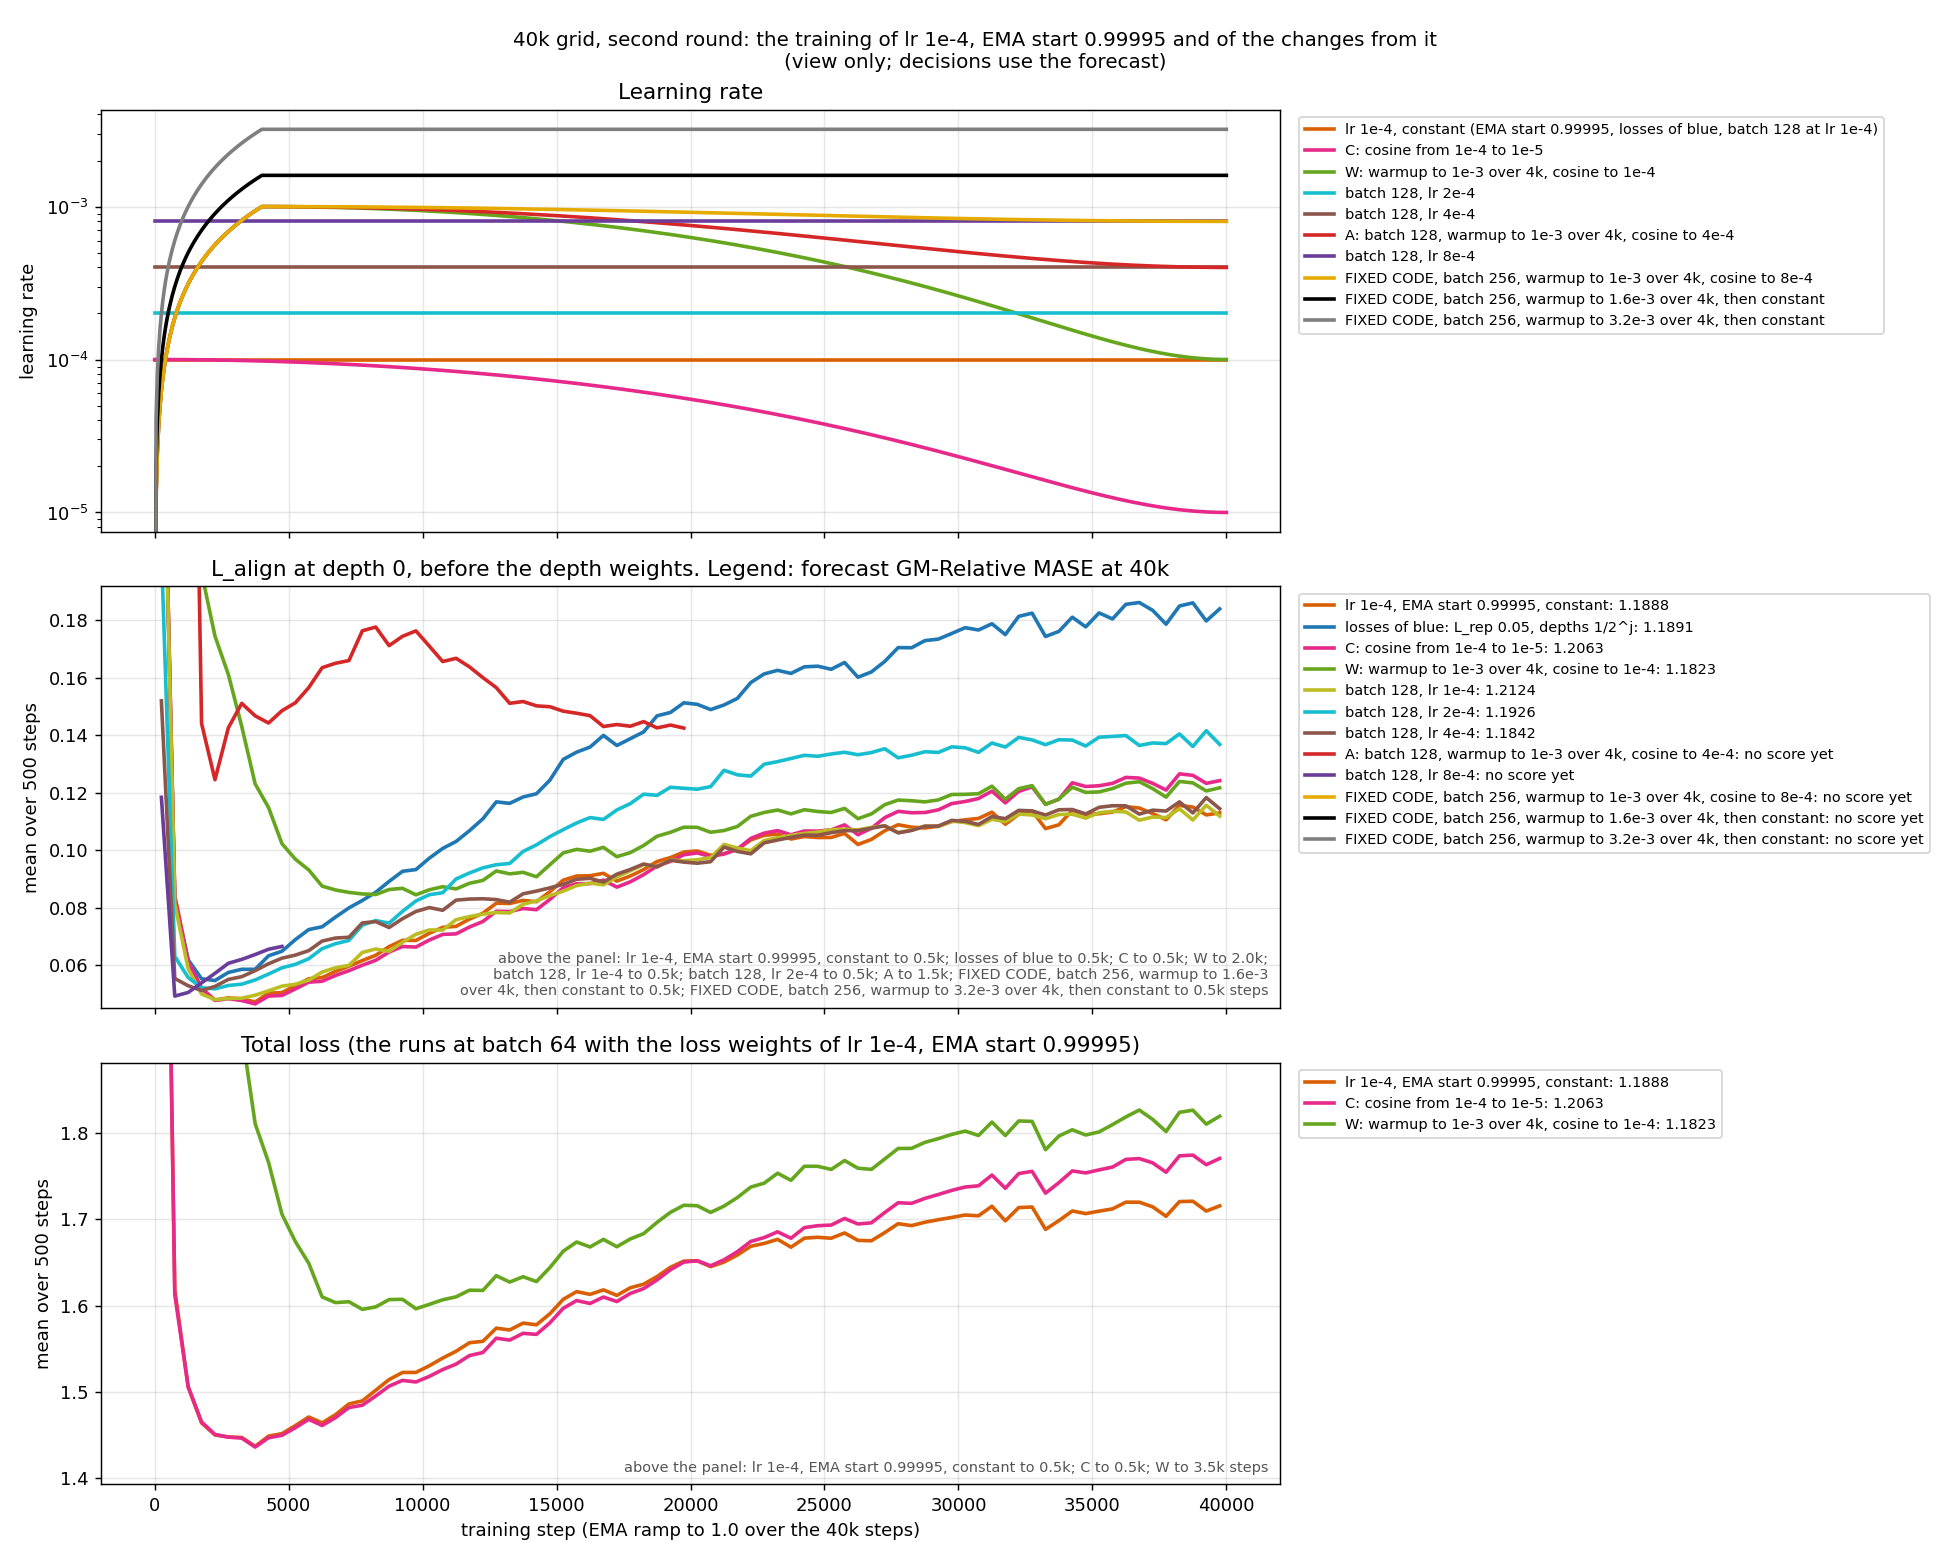
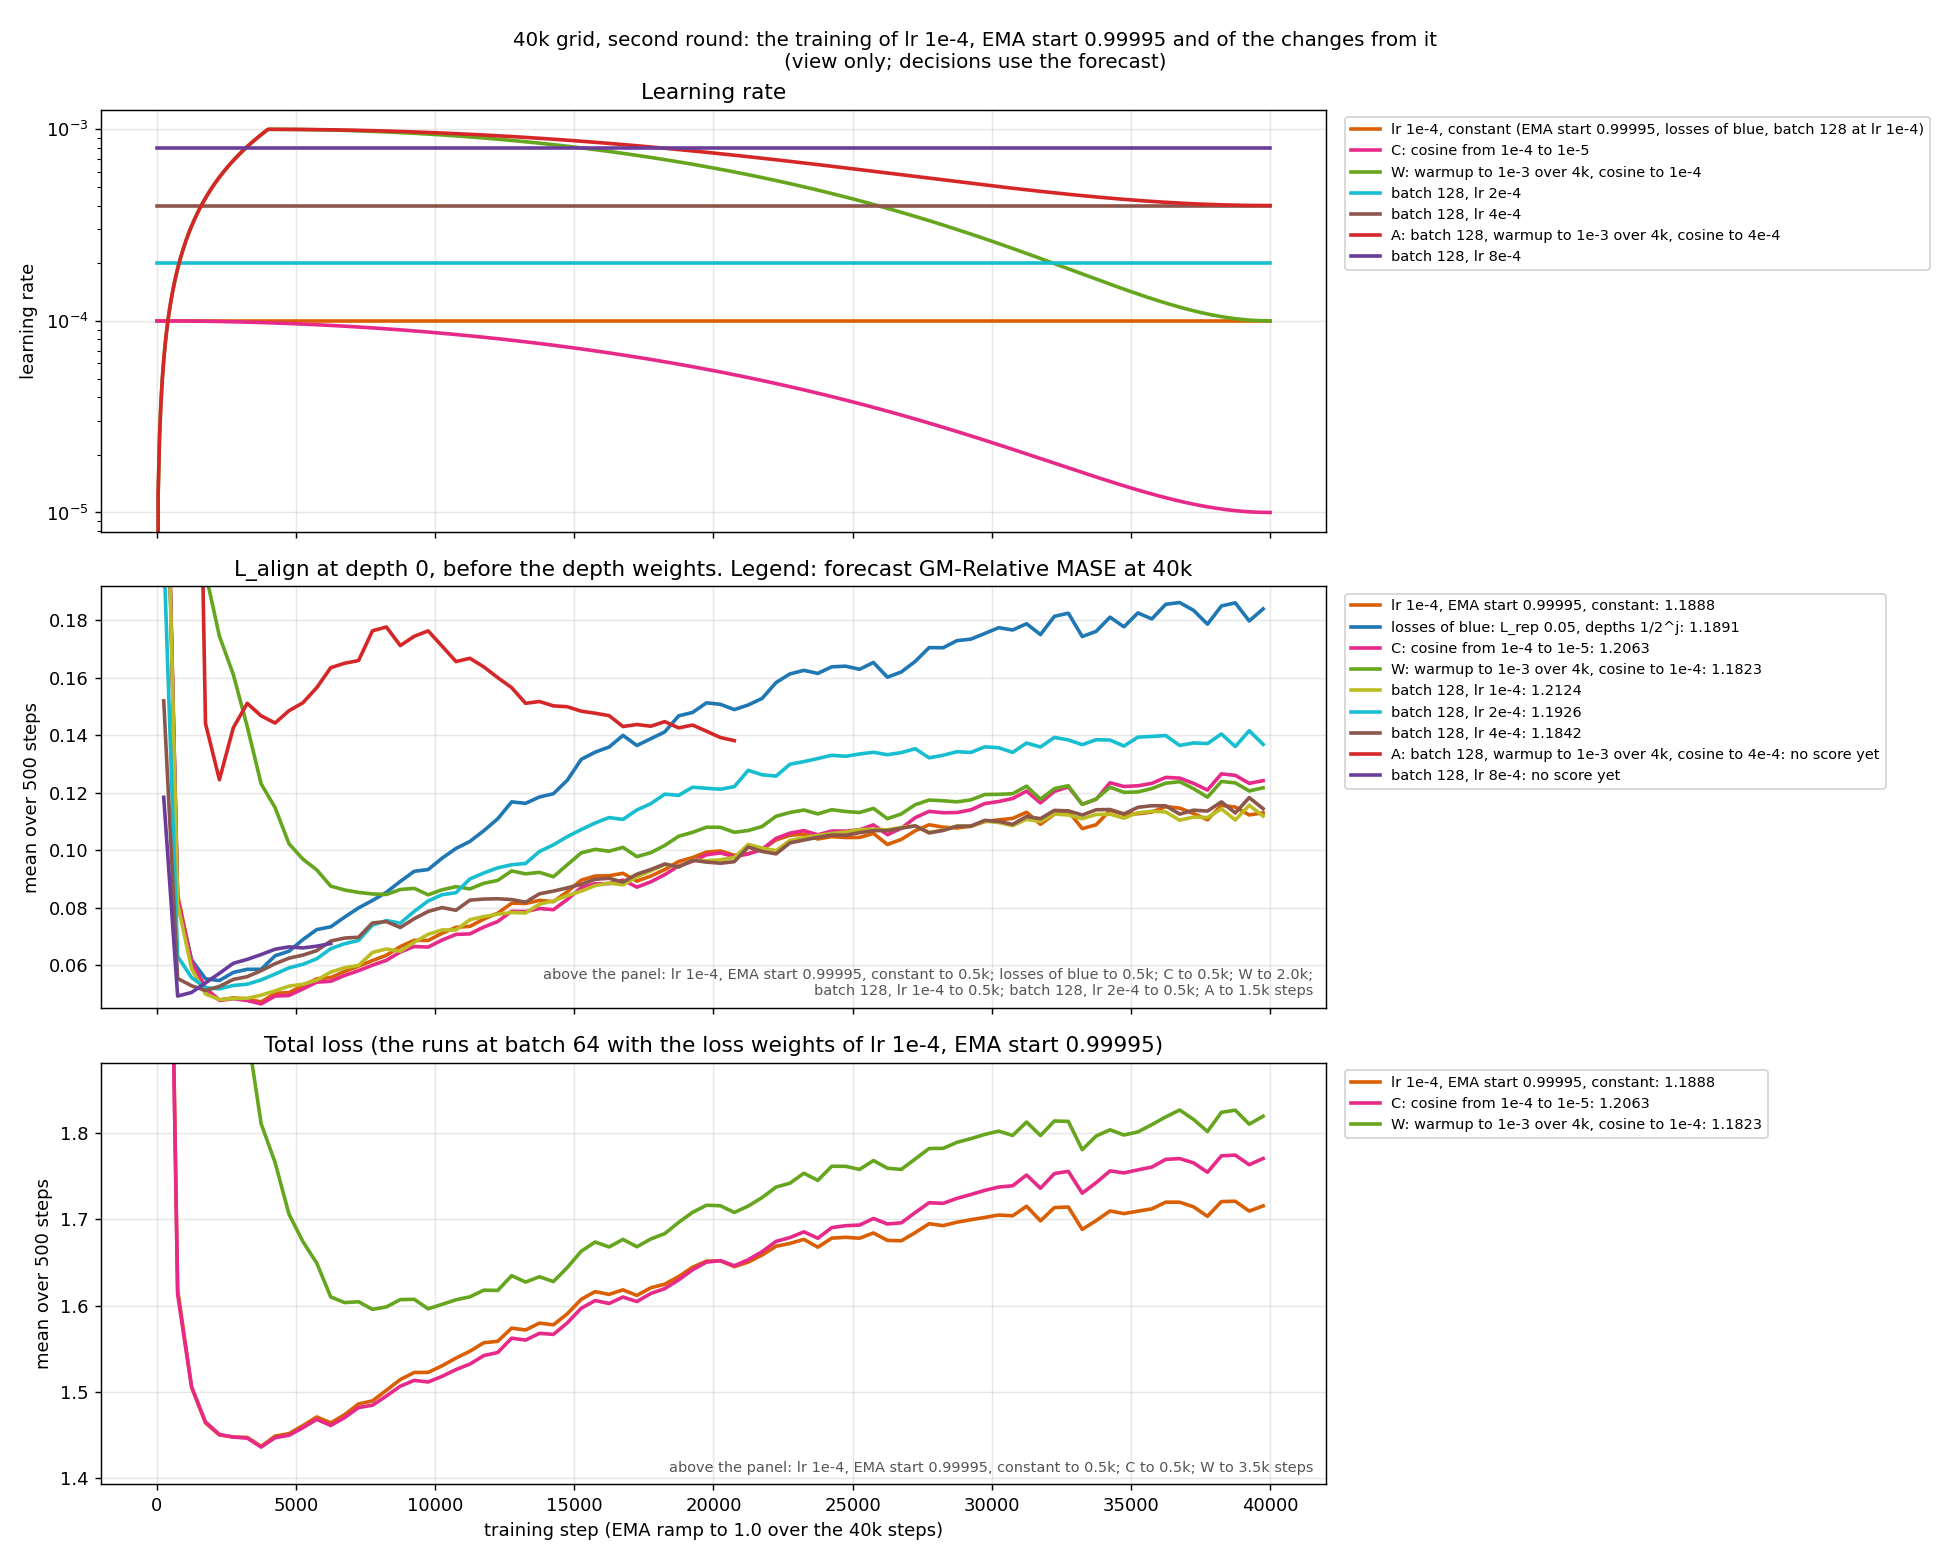
freq_family report: TRQ at 140k (1.1354), the resumed runs drawn from their parent's point; the stopped batch-256 rows out of the grid figures

diff --git a/reports/2026-10-10_frequency_family_head/scripts/plot_grid40k.py b/reports/2026-10-10_frequency_family_head/scripts/plot_grid40k.py
@@ -8,11 +8,8 @@ rows are the learning rate, the columns the EMA start (--ema-tau).
 The second round (the user, 11-02 and 11-03): runs from the cell lr 1e-4,
 EMA start 0.99995, each with one change (the losses of blue or an lr
 schedule); batch 128 at the lr 1e-4, 2e-4, 4e-4 and 8e-4, and with the warmup
-of W and a cosine to 4e-4; batch 256 with a warmup to 1e-3, 1.6e-3 or 3.2e-3
-(around the projected lr 1.6e-3) on the FIXED CODE (the user, 11-03: the
-normalised rollout feedback in training and scoring, #446 and #447, and the
-SIGReg window 6/sigma, #438): the _fx runs. Its panel has that cell as its
-first row.
+of W and a cosine to 4e-4. Batch 256 comes after these batch-128 results (the
+user, 11-03), on the fixed code. Its panel has that cell as its first row.
 
 Each cell is the forecast GM-Relative MASE of head B4 at 40k (30k head steps,
 97 configs). Lower is better. A grey cell has no score yet.
@@ -54,20 +51,13 @@ ROUND2 = {BEST: ("lr 1e-4, EMA start 0.99995\n(no change)", "1e-4"),
           "g40b_lr4em4_tau99995_bs128": ("batch 128, lr 4e-4", "4e-4"),
           "g40w_lr1em3_wu4k_cos4em4_bs128": ("batch 128, warmup to 1e-3,\nthen cosine to 4e-4",
                                              "warmup to 1e-3, cosine to 4e-4"),
-          "g40b_lr8em4_tau99995_bs128": ("batch 128, lr 8e-4", "8e-4"),
-          "g40w_lr1em3_wu4k_cos8em4_bs256_fx": ("FIXED CODE, batch 256,\nwarmup to 1e-3, cosine to 8e-4",
-                                                "warmup to 1e-3, cosine to 8e-4"),
-          "g40w_lr1p6em3_wu4k_bs256_fx": ("FIXED CODE, batch 256,\nwarmup to 1.6e-3, constant",
-                                          "warmup to 1.6e-3, constant"),
-          "g40w_lr3p2em3_wu4k_bs256_fx": ("FIXED CODE, batch 256,\nwarmup to 3.2e-3, constant",
-                                          "warmup to 3.2e-3, constant")}
+          "g40b_lr8em4_tau99995_bs128": ("batch 128, lr 8e-4", "8e-4")}
 # run -> its colour in the radar and in the training figure of the second round
 ROUND2_COLOURS = {BEST: "#d95f02", "g40b_lr1em4_tau99995_rep005h": "#1f77b4",
                   "g40c_lr1em4_tau99995_cos": "#e7298a", "g40w_lr1em3_wu4k_cos": "#66a61e",
                   "g40b_lr1em4_tau99995_bs128": "#bcbd22", "g40b_lr2em4_tau99995_bs128": "#17becf",
                   "g40b_lr4em4_tau99995_bs128": "#8c564b", "g40w_lr1em3_wu4k_cos4em4_bs128": "#d62728",
-                  "g40b_lr8em4_tau99995_bs128": "#6a3d9a", "g40w_lr1em3_wu4k_cos8em4_bs256_fx": "#e6ab02",
-                  "g40w_lr1p6em3_wu4k_bs256_fx": "#000000", "g40w_lr3p2em3_wu4k_bs256_fx": "#7f7f7f"}
+                  "g40b_lr8em4_tau99995_bs128": "#6a3d9a"}
 
 
 def run_score(run):

diff --git a/reports/2026-10-10_frequency_family_head/scripts/plot_green_scores.py b/reports/2026-10-10_frequency_family_head/scripts/plot_green_scores.py
@@ -94,6 +94,9 @@ ON_TOP = {GRN_EMA099995, GRN_EMA099995_F6, GRN_EMA099995_F6_REP01,
           GRN_EMA099995_F6_REP01_MUP_HID56,
           GRN_EMA09998_REP003_HALVING, GRN_EMA099995_REP003_HALVING,
           GRN_EMA099995_F6_CD240, GRN_EMA09998, GRN_EMA09998_SIGFIX}
+# A run that resumed from another run's save: its line starts at the score of
+# that save (parent run, stop k), and it is drawn above the other runs.
+BRANCHES = {GRN_EMA099995_F6_CD240: (GRN_EMA099995_F6, 240), GRN_EMA09998_SIGFIX: (GRN_EMA09998, 100)}
 MPE = "cf421ew_moirai_native"
 # Its R (transformer head 0.12 to 0.21) lies far above the R panels.
 FORECAST_ONLY = {MPE}
@@ -219,9 +222,15 @@ def draw_panel(ax, title, y_range, points, starred=None):
             continue
         values = [points[arm][s] for s in stops]
         low = min(low, min(values) - 0.02 * (y_range[1] - y_range[0]))
+        style = line(arm) if arm in STYLE else "-"
+        parent, branch_k = BRANCHES.get(arm, (None, None))
+        start = points.get(parent, {}).get(branch_k)
+        if start is not None:
+            ax.plot([branch_k * 1000, stops[0] * 1000], [start, values[0]], color=colour_hex,
+                    ls=style, lw=2.2, zorder=4)
         ax.plot([s * 1000 for s in stops], values, color=colour_hex, marker=marker,
-                ls=line(arm) if arm in STYLE else "-", lw=2.2, ms=7, label=label,
-                zorder=3 if arm in ON_TOP else 2)
+                ls=style, lw=2.2, ms=7, label=label,
+                zorder=4 if arm in BRANCHES else 3 if arm in ON_TOP else 2)
         for stop in sorted(set(stops) & (starred or {}).get(arm, set())):
             ax.plot(stop * 1000, min(points[arm][stop], y_range[1]), marker="*", ms=15,
                     color="black", alpha=0.25, ls="none", zorder=4)

diff --git a/reports/2026-10-10_frequency_family_head/scripts/plot_grid40k_round2.py b/reports/2026-10-10_frequency_family_head/scripts/plot_grid40k_round2.py
@@ -52,12 +52,6 @@ RUNS = {
     "g40w_lr1em3_wu4k_cos4em4_bs128": ("A: batch 128, warmup to 1e-3 over 4k, cosine to 4e-4",
                                        (1e-3, 4e-4, STEPS, 4000), False),
     "g40b_lr8em4_tau99995_bs128": ("batch 128, lr 8e-4", (8e-4, 8e-4, STEPS, 0), False),
-    "g40w_lr1em3_wu4k_cos8em4_bs256_fx": ("FIXED CODE, batch 256, warmup to 1e-3 over 4k, cosine to 8e-4",
-                                          (1e-3, 8e-4, STEPS, 4000), False),
-    "g40w_lr1p6em3_wu4k_bs256_fx": ("FIXED CODE, batch 256, warmup to 1.6e-3 over 4k, then constant",
-                                    (1.6e-3, 1.6e-3, STEPS, 4000), False),
-    "g40w_lr3p2em3_wu4k_bs256_fx": ("FIXED CODE, batch 256, warmup to 3.2e-3 over 4k, then constant",
-                                    (3.2e-3, 3.2e-3, STEPS, 4000), False),
 }
 
 
